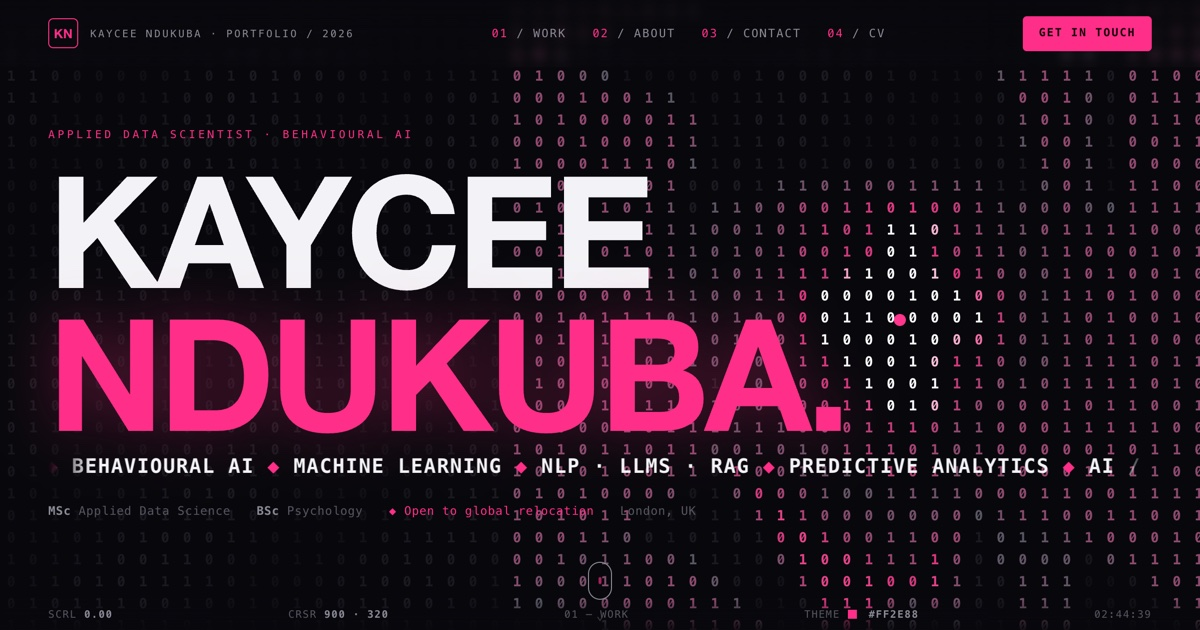
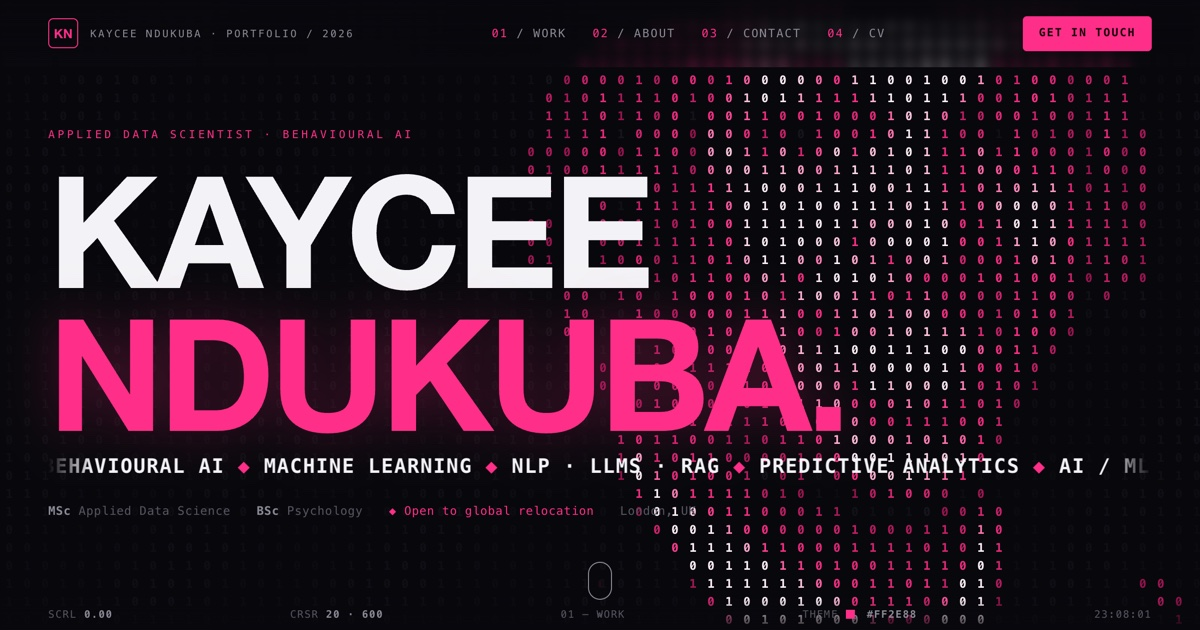
Hero portrait: isolate face, boost contrast, finer grid for instant recognition; refresh share card

diff --git a/index.html b/index.html
@@ -310,7 +310,7 @@
 <!-- HERO -->
 <header class="hero" id="top">
   <canvas id="bin" aria-hidden="true"></canvas>
[1 lines of base64/hex data omitted]
+  <img id="face" alt="" aria-hidden="true" style="display:none" src="assets/kaycee-hero.jpg">
   <div class="wrap">
     <div class="role reveal in"><span class="ey">Applied Data Scientist · Behavioural AI</span></div>
     <h1 class="disp hname" aria-label="Kaycee Ndukuba"><span class="ln"><span class="in">KAYCEE</span></span><span class="ln"><span class="in b">NDUKUBA.</span></span></h1>
@@ -623,7 +623,7 @@ document.getElementById("msg").addEventListener("submit",function(e){
 });
 
 /* ---------- BINARY HERO (reveals portrait) ---------- */
-var cv=document.getElementById("bin"),x=cv.getContext("2d"),W,H,DPR,cols,rows,cell=22,grid=[],mx=-9999,my=-9999;
+var cv=document.getElementById("bin"),x=cv.getContext("2d"),W,H,DPR,cols,rows,cell=18,grid=[],mx=-9999,my=-9999;
 var face=document.getElementById("face"),faceOK=false,flum=[];
 var oc=document.createElement("canvas"),ox=oc.getContext("2d",{willReadFrequently:true});
 face.addEventListener("load",function(){faceOK=true;sampleFace();});
@@ -640,8 +640,8 @@ function sampleFace(){
     var col=i%cols;
     if(col<startC){flum[i]=0;continue;}
     var lum=(0.299*d[i*4]+0.587*d[i*4+1]+0.114*d[i*4+2])/255;
-    lum=(lum-0.10)/0.74; lum=lum<0?0:lum>1?1:lum;
-    flum[i]=Math.pow(lum,0.92)*0.86;
+    lum=(lum-0.15)/0.62; lum=lum<0?0:lum>1?1:lum;
+    flum[i]=Math.pow(lum,0.80)*0.98;
   }
 }
 function size(){DPR=Math.min(devicePixelRatio||1,2);W=cv.clientWidth;H=cv.clientHeight;cv.width=W*DPR;cv.height=H*DPR;x.setTransform(DPR,0,0,DPR,0,0);
@@ -655,22 +655,22 @@ function frame(){
   t+=0.016;
   if(coarse){ mx=W*(0.70+0.15*Math.sin(t*0.5)); my=H*(0.46+0.20*Math.cos(t*0.42)); } // auto-sweep on touch
   x.clearRect(0,0,W,H);
-  x.font="700 14px 'SF Mono',ui-monospace,Menlo,monospace";x.textAlign="center";x.textBaseline="middle";
+  x.font="700 12px 'SF Mono',ui-monospace,Menlo,monospace";x.textAlign="center";x.textBaseline="middle";
   for(var gy=0;gy<rows;gy++){for(var gx=0;gx<cols;gx++){
     var idx=gy*cols+gx,g=grid[idx];var px=gx*cell+cell/2,py=gy*cell+cell/2;
     var fb=flum[idx]||0;
-    var wave=0.045+0.04*Math.sin((gx*0.5+gy*0.4)-t*1.3);
+    var wave=0.02+0.03*Math.sin((gx*0.5+gy*0.4)-t*1.3);
     var dx2=px-mx,dy2=py-my,d=Math.sqrt(dx2*dx2+dy2*dy2);
     var spot=d<160?(1-d/160):0; spot=spot*spot;
     var target=Math.min(1,Math.max(fb, wave) + spot*1.15 + fb*spot*0.6);
     g.b+=(target-g.b)*0.15;
     if(Math.random()<0.008+spot*0.06+fb*0.03) g.c=Math.random()<.5?"0":"1";
     var b=g.b;
-    if(b<0.1){x.fillStyle="rgba(150,150,165,"+(0.045+b).toFixed(3)+")";}
+    if(b<0.12){x.fillStyle="rgba(120,120,140,"+(0.03+b*0.7).toFixed(3)+")";}
     else{
-      var lv=Math.min(1,(b-0.1)/0.9);
-      var rr=Math.round(88+(255-88)*lv), gg=Math.round(88+(46-88)*lv), bb=Math.round(100+(136-100)*lv);
-      if(b>0.85){var w=(b-0.85)/0.15;rr=Math.round(rr+(255-rr)*w);gg=Math.round(gg+(255-gg)*w);bb=Math.round(bb+(255-bb)*w);}
+      var lv=(b-0.12)/0.88, rr,gg,bb;
+      if(lv<0.7){var u=lv/0.7;rr=Math.round(150+105*u);gg=Math.round(18+28*u);bb=Math.round(78+58*u);}
+      else{var w=(lv-0.7)/0.3;rr=255;gg=Math.round(46+209*w);bb=Math.round(136+119*w);}
       x.fillStyle="rgb("+rr+","+gg+","+bb+")";
     }
     x.fillText(g.c,px,py);
